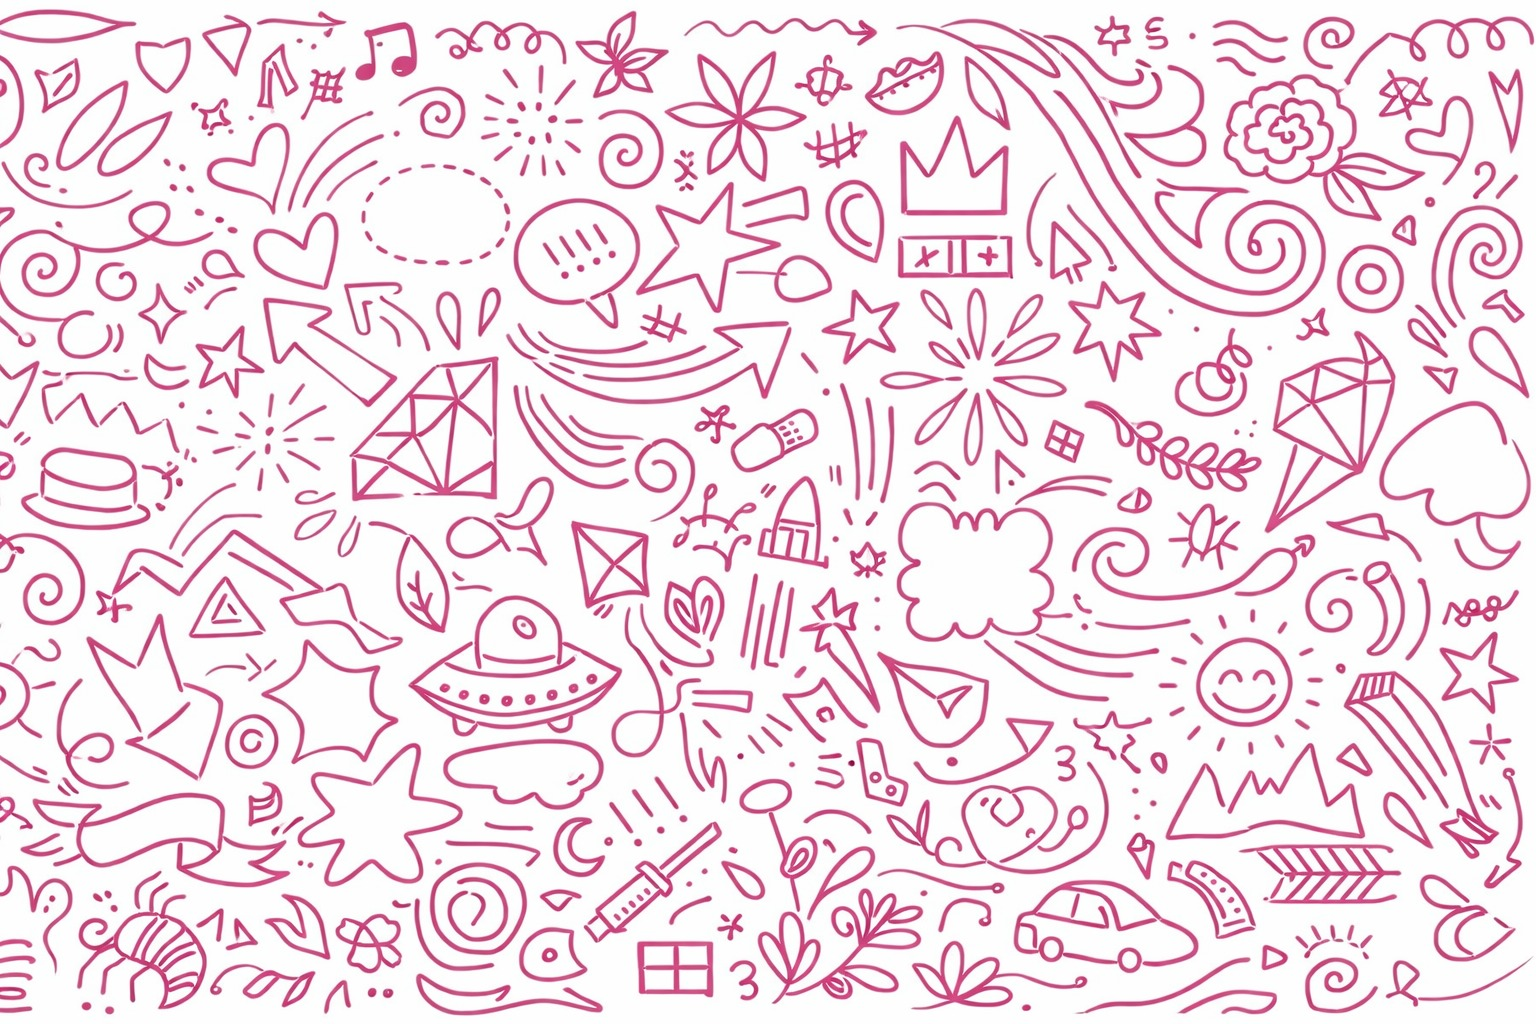
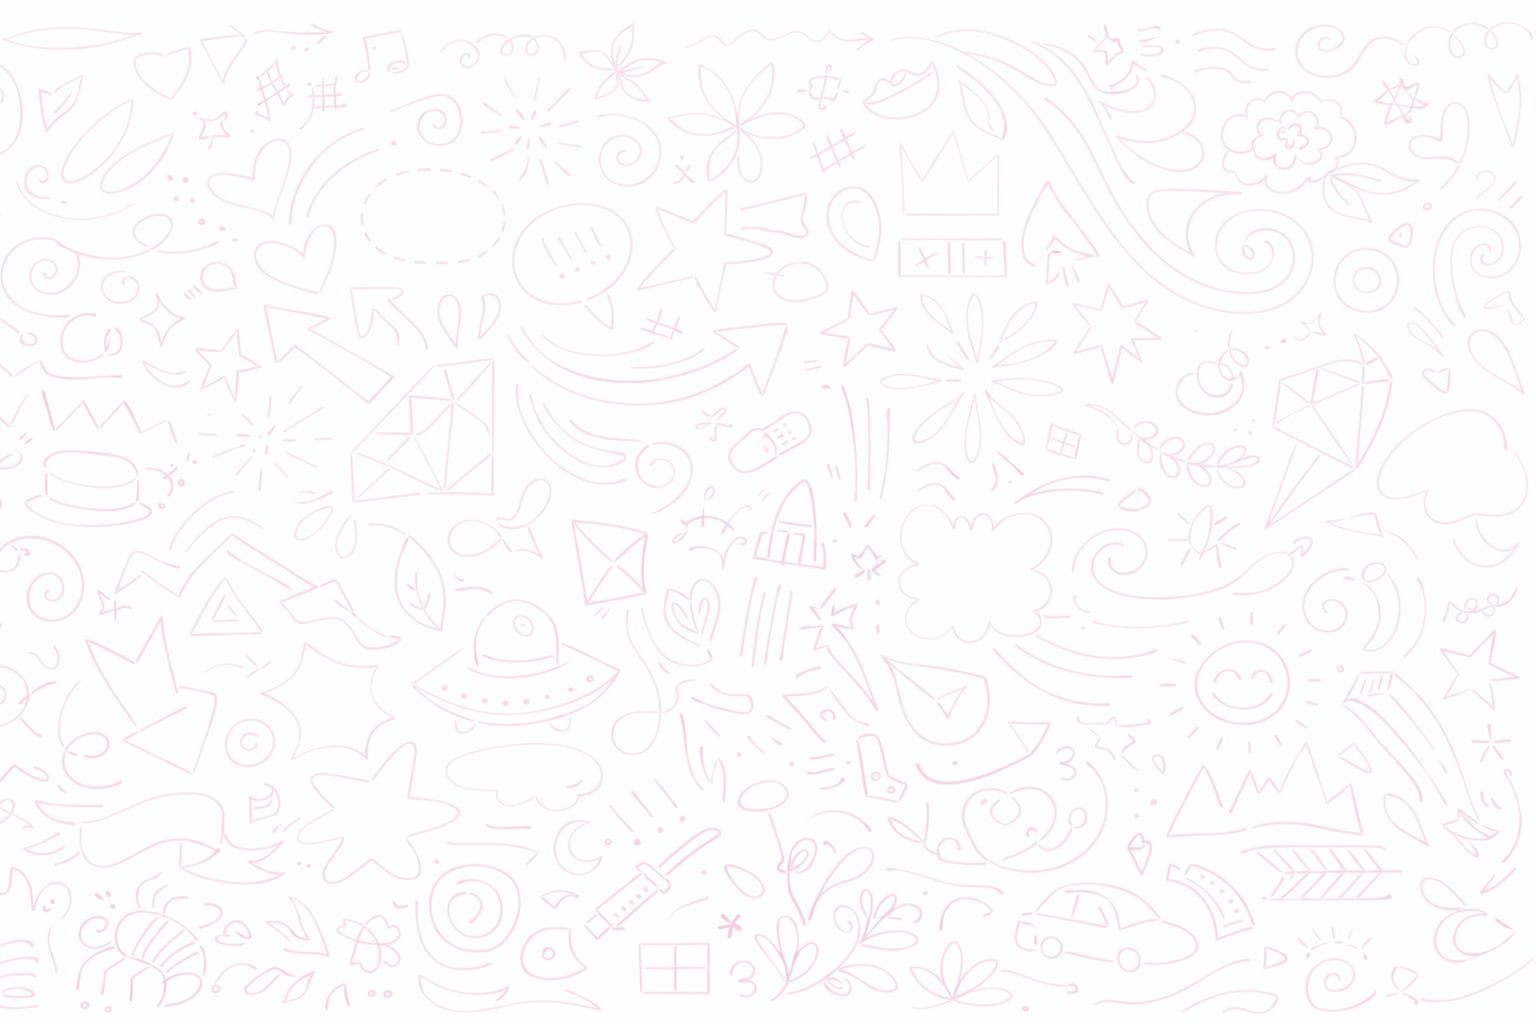
modified landing page image and quiz background

Changed region(s): [[0.0, 0.0, 1.0, 1.0]]

diff --git a/components/marketing/landing-page.tsx b/components/marketing/landing-page.tsx
@@ -4,8 +4,8 @@ import Link from "next/link";
 import { useEffect, useState } from "react";
 
 const IMGS = {
-  // hero: "https://roopveda.co.in/Images/index-main-girl.png",
-  hero: "Images/hero_section_image.webp",
+  hero: "/Images/index-main-girl.png",
+  // hero: "Images/hero_section_image.webp",
   cmp1: "/Images/camparison1.png",
   cmp2: "/Images/camparison2.png",
   cmp3: "/Images/camparison3.png"
